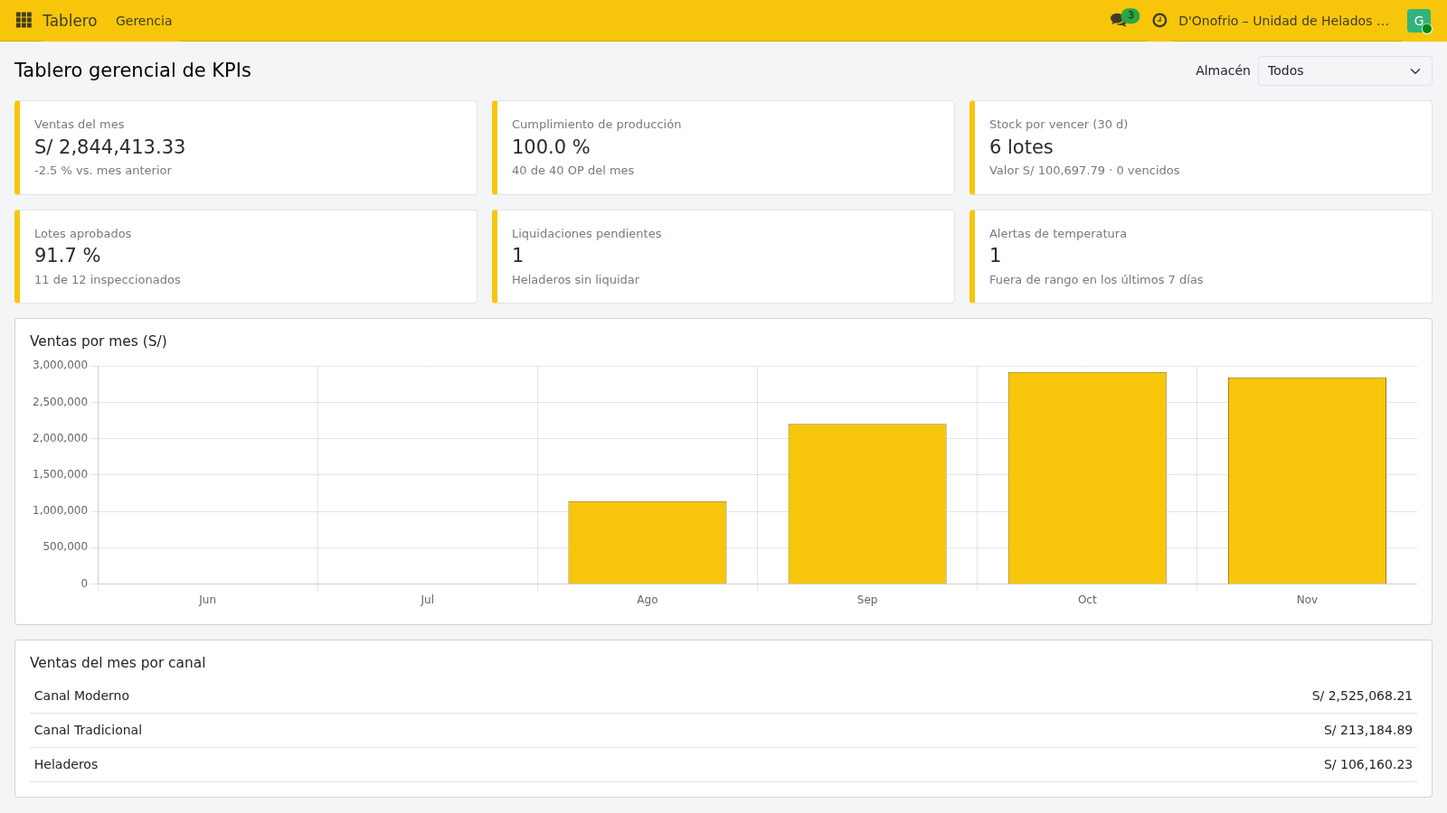
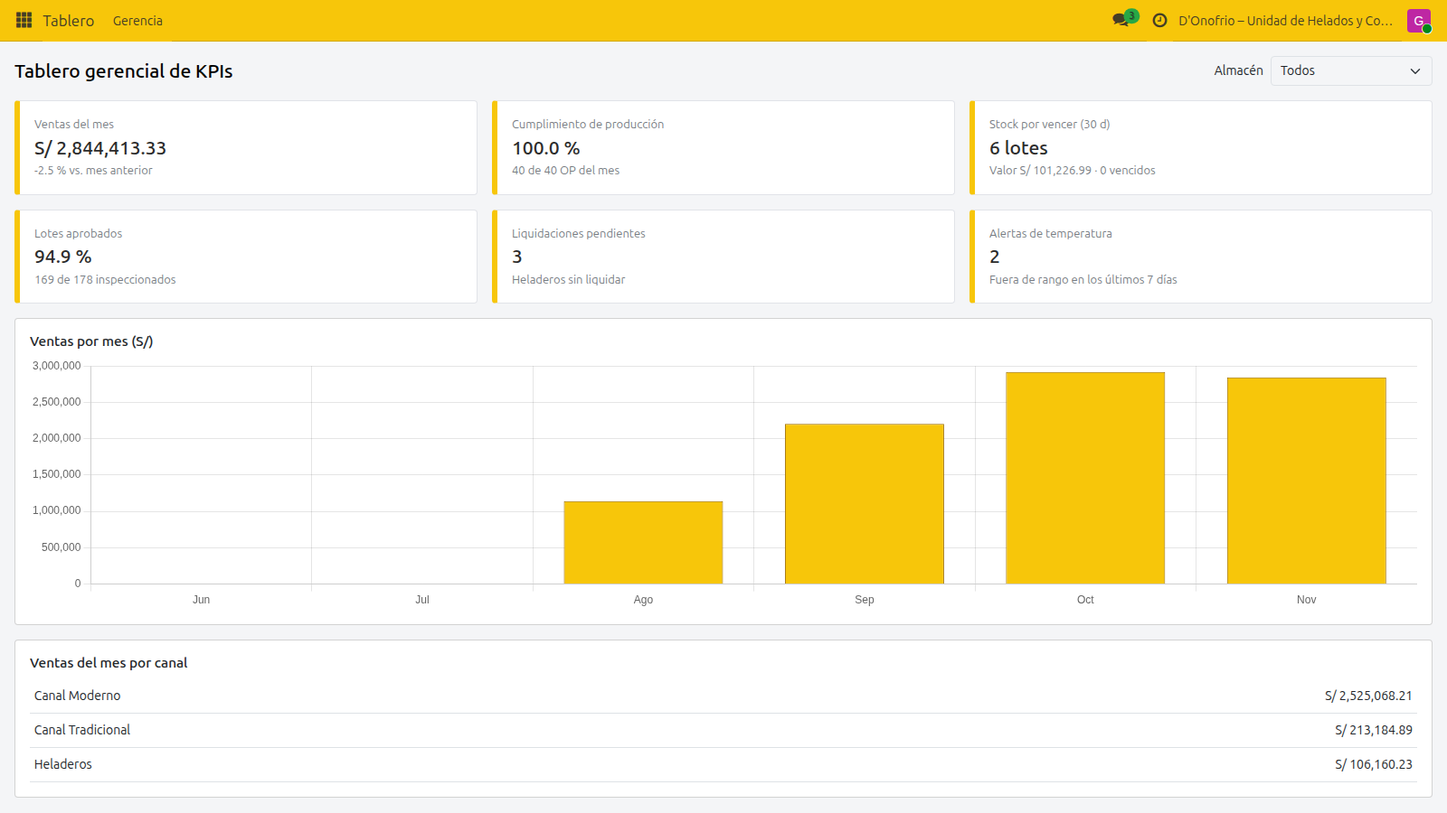
docs(capturas): PNG de 1600x900 con datos de demostración y juego para el manual [HU-17][HU-18][HU-19][HU-20][HU-21][HU-22]
- Reemplaza por PNG las capturas JPG de M1 (HU-17, HU-18) y M2 (HU-20, HU-21) con la misma escena,
  ahora con los datos de la HU-16, y borra los JPG.
- Rehace las de M3 (HU-19) y las dos del tablero con las tarjetas llenas (HU-22).
- Se conservan dos JPG que no se pueden reproducir sin crear datos o sin la pantalla anterior:
  HU-20_error_devuelto_mas_merma y HU-24_limite_login_morado.
- Agrega docs/capturas/manual/ (30 capturas por rol, rol_NN_pantalla.png) y su README.
- Actualiza referencias en los informes de M1, M2, M3 y M4, la ficha RF y los gates; marca como resuelto
  el pendiente de las capturas de M1 y M2 en el gate de M4.

diff --git a/docs/capturas/manual/README.md b/docs/capturas/manual/README.md
@@ -1,0 +1,47 @@
+# Capturas para el manual de usuario
+
+Material de apoyo para el manual de usuario (que se redacta aparte). Son 30 capturas de las pantallas principales de cada rol, tomadas el 25/11/2026 sobre la base `donofrio` con los datos de demostración de la HU-16 (del 3/8 al 22/11/2026). Todas son PNG de 1600 × 900 y se tomaron **solo con lectura**: no se creó, confirmó ni borró ningún registro.
+
+Nombre de cada archivo: `rol_NN_pantalla.png`. El usuario de cada rol es el de demostración de `donofrio_base` (por ejemplo `vendedor@donofrio.example.com`); el «menú» es la ruta que sigue ese usuario en Odoo.
+
+| Archivo | Rol | Menú | Qué muestra |
+|---|---|---|---|
+| [`gerente_01_tablero.png`](gerente_01_tablero.png) | Gerente | Tablero › Gerencia | Tablero gerencial con las seis tarjetas (ventas del mes, cumplimiento de producción, stock por vencer, lotes aprobados, liquidaciones pendientes y alertas de temperatura), el gráfico de ventas por mes y la tabla por canal, con «Todos» los almacenes |
+| [`gerente_02_analisis_facturas.png`](gerente_02_analisis_facturas.png) | Gerente | Facturación › Reportes › Análisis de facturas | Gráfico de lo facturado de agosto a noviembre |
+| [`gerente_03_tablero_lima.png`](gerente_03_tablero_lima.png) | Gerente | Tablero › Gerencia | El mismo tablero con el filtro «Almacén: WH-LIM Planta Lima» |
+| [`jefe_ventas_01_pipeline_crm.png`](jefe_ventas_01_pipeline_crm.png) | Jefe de ventas | CRM › Ventas › Mi flujo | Pipeline de oportunidades por etapa (Prospecto, Calificado, Propuesta, Negociación, Ganado) con importes |
+| [`jefe_ventas_02_cotizaciones_pedidos.png`](jefe_ventas_02_cotizaciones_pedidos.png) | Jefe de ventas | CRM › Ventas › Mis cotizaciones | Lista de pedidos de venta con cliente, vendedor, total y estado |
+| [`jefe_ventas_03_pedido_formulario.png`](jefe_ventas_03_pedido_formulario.png) | Jefe de ventas | CRM › Ventas › Mis cotizaciones › S00437 | Formulario de un pedido confirmado: cliente, líneas, impuestos y total |
+| [`vendedor_01_mis_cotizaciones.png`](vendedor_01_mis_cotizaciones.png) | Vendedor | CRM › Ventas › Mis cotizaciones | Los pedidos del vendedor, con total y estado |
+| [`vendedor_02_pedido_formulario.png`](vendedor_02_pedido_formulario.png) | Vendedor | CRM › Ventas › Mis cotizaciones › S00429 | Formulario del pedido: cliente, lista de precios, líneas y total |
+| [`vendedor_03_mi_flujo.png`](vendedor_03_mi_flujo.png) | Vendedor | CRM › Ventas › Mi flujo | Sus oportunidades por etapa |
+| [`cajero_01_pdv_pantalla_venta.png`](cajero_01_pdv_pantalla_venta.png) | Cajero | Punto de venta › Seguir vendiendo | Pantalla de venta del PdV con la caja desbloqueada: productos de la heladería y el pedido vacío listo para cobrar |
+| [`cajero_02_pdv_ordenes.png`](cajero_02_pdv_ordenes.png) | Cajero | Punto de venta › Órdenes › Órdenes | Lista de órdenes del PdV con sesión, fecha, recibo, total y estado |
+| [`cajero_03_pdv_reporte_ordenes.png`](cajero_03_pdv_reporte_ordenes.png) | Cajero | Punto de venta › Reportes › Órdenes | Análisis de las ventas del PdV por categoría de producto |
+| [`jefe_almacen_01_existencias_por_ubicacion.png`](jefe_almacen_01_existencias_por_ubicacion.png) | Jefe de almacén | Inventario › Reportes › Ubicaciones | Existencias por ubicación, producto y número de lote |
+| [`jefe_almacen_02_recepciones.png`](jefe_almacen_02_recepciones.png) | Jefe de almacén | Inventario › Operaciones › Recepciones | Recepciones de mercadería en estado «Hecho», con su origen |
+| [`jefe_almacen_03_cadena_frio_lecturas.png`](jefe_almacen_03_cadena_frio_lecturas.png) | Jefe de almacén | Calidad › Cadena de frío › Lecturas de temperatura | Lecturas por cámara con su rango; la lectura fuera de rango sale en rojo y con la casilla marcada |
+| [`jefe_produccion_01_ordenes_fabricacion.png`](jefe_produccion_01_ordenes_fabricacion.png) | Jefe de producción | Manufactura › Operaciones › Órdenes de fabricación | Lista de órdenes de fabricación (sin filtro) con producto, cantidad y estado |
+| [`jefe_produccion_02_orden_formulario.png`](jefe_produccion_02_orden_formulario.png) | Jefe de producción | Manufactura › Operaciones › Órdenes de fabricación › WH/MO/00188 | Orden terminada: producto, lote, cantidad y componentes consumidos |
+| [`inspector_01_lista_inspecciones.png`](inspector_01_lista_inspecciones.png) | Inspector | Calidad › Inspecciones | Inspecciones «Por medir» (pendientes y en medición) |
+| [`inspector_02_inspeccion_en_medicion.png`](inspector_02_inspeccion_en_medicion.png) | Inspector | Calidad › Inspecciones › INS/00184 | Inspección en medición con sus puntos de control y los botones «Aprobar lote» y «Rechazar lote» |
+| [`inspector_03_certificado_pdf.png`](inspector_03_certificado_pdf.png) | Inspector | Calidad › Inspecciones › INS/00178 › Certificado PDF | Certificado de calidad del lote con mediciones y responsable |
+| [`liquidador_01_lista_liquidaciones.png`](liquidador_01_lista_liquidaciones.png) | Liquidador | Heladeros › Liquidaciones | Liquidaciones del día por heladero, con unidades, importe, comisión y estado |
+| [`liquidador_02_liquidacion_despachada.png`](liquidador_02_liquidacion_despachada.png) | Liquidador | Heladeros › Liquidaciones › LIQ/2026/00126 | Liquidación despachada: despachado, vendido, precio e importe, con «Confirmar liquidación» e «Imprimir» |
+| [`liquidador_03_liquidacion_pdf.png`](liquidador_03_liquidacion_pdf.png) | Liquidador | Heladeros › Liquidaciones › LIQ/2026/00123 › Imprimir | PDF de la liquidación con el detalle, el efectivo entregado y las firmas |
+| [`compras_01_pedidos_compra.png`](compras_01_pedidos_compra.png) | Compras | Compras › Órdenes › Solicitudes de cotización | Órdenes de compra a proveedores con total y estado |
+| [`compras_02_pedido_compra_formulario.png`](compras_02_pedido_compra_formulario.png) | Compras | Compras › Órdenes › P00101 | Formulario de una orden de compra: proveedor, líneas recibidas y facturadas, impuestos |
+| [`contador_01_facturas_clientes.png`](contador_01_facturas_clientes.png) | Contador | Facturación › Clientes › Facturas | Facturas y boletas de clientes con fecha, total y estado de pago |
+| [`contador_02_pagos.png`](contador_02_pagos.png) | Contador | Facturación › Clientes › Pagos | Pagos de clientes por diario y método, con su estado |
+| [`contador_03_facturas_proveedor.png`](contador_03_facturas_proveedor.png) | Contador | Facturación › Proveedores › Facturas | Facturas de proveedores con vencimiento y estado |
+| [`admin_01_ajustes.png`](admin_01_ajustes.png) | Admin | Ajustes › Ajustes generales | Pantalla de Ajustes: usuarios, idiomas, empresa y aplicaciones configurables |
+| [`admin_02_aplicaciones.png`](admin_02_aplicaciones.png) | Admin | Aplicaciones (filtro «Instalado») | Aplicaciones instaladas, entre ellas Calidad, Heladeros y Tablero de D'Onofrio |
+
+## Cómo se tomaron y qué tener en cuenta
+
+- Se tomaron con Chromium sin interfaz (Playwright) a 1600 × 900, entrando al ERP con cada usuario y recorriendo el menú, de modo que la barra superior muestra la aplicación y la ruta reales. Los PDF (certificado y liquidación) se descargaron del propio ERP y se dibujaron en un marco de visor de 1600 × 900.
+- **Panel de mensajes oculto en cuatro formularios** (`jefe_ventas_03`, `vendedor_02`, `jefe_produccion_02`, `compras_02`): el historial de esos registros lo creó el script de carga el 24/11 y está en inglés («Sales Order created»); se ocultó solo en la captura para que no aparezcan datos fuera de 3/8–22/11 ni texto en otro idioma. No se tocó ningún dato.
+- **Columna «Fecha de creación» quitada** en `jefe_ventas_02` y `vendedor_01` (selector de columnas de la lista, un ajuste de pantalla): para los pedidos de demostración era el 24/11, el día de la carga.
+- En `cajero_01_pdv_pantalla_venta` los productos salen con la imagen genérica porque la demostración no trae fotos de producto. El tablero del PdV (tarjeta «Seguir vendiendo») no se capturó: la sesión abierta es de pruebas y su fecha de apertura es el 24/11.
+- Los apellidos, los clientes («… Ejemplo SAC») y las direcciones son ficticios (datos de la HU-16). El domicilio «Av. Ejemplo 123» y el RUC `20999999990` de la cabecera de los PDF son los de la empresa de demostración.
+- Lotes: el listado de lotes de Odoo muestra la fecha de creación de la carga (24/11), así que el manual puede usar `jefe_almacen_01` (cada existencia con su lote) y `docs/capturas/sprint-4/HU-19_cron_lote_por_vencer.png` para la ficha de un lote por vencer.

diff --git a/docs/informe/05_05_modulo_donofrio_heladeros.md b/docs/informe/05_05_modulo_donofrio_heladeros.md
@@ -59,23 +59,23 @@ Un usuario sin esos grupos (por ejemplo, el comprador) recibe `AccessError` (pru
 
 `scripts/test.sh donofrio_heladeros`: **14 pruebas, sin errores** (vendido, precio de la lista «Heladero», comisión y diferencia, rechazo de devuelto + merma mayor que lo despachado y de cantidades negativas, una liquidación por día, flujo completo con su pedido confirmado, estados no permitidos, permisos, y el PDF en despachada, con deuda y en borrador).
 
-Verificado en la pantalla de Odoo (base `donofrio`, usuario Liquidador, 24/11/2026):
+Verificado en la pantalla de Odoo (base `donofrio`, usuario Liquidador, con los datos de demostración de la HU-16; PNG de 1600 × 900, tomados el 25/11/2026):
 
 | Qué se verificó | Captura |
 |---|---|
-| Liquidación despachada con vendido, importe, comisión y diferencia de efectivo | [`HU-20_liquidacion_despachada.jpg`](../capturas/sprint-4/HU-20_liquidacion_despachada.jpg) |
-| Liquidación confirmada (Liquidado) con su pedido de venta S00441 | [`HU-20_liquidacion_confirmada_con_pedido.jpg`](../capturas/sprint-4/HU-20_liquidacion_confirmada_con_pedido.jpg) |
-| Lista de liquidaciones con totales | [`HU-20_lista_liquidaciones.jpg`](../capturas/sprint-4/HU-20_lista_liquidaciones.jpg) |
-| Precio con tres decimales y el importe que cuadra | [`HU-20_liquidacion_precio_3_decimales.jpg`](../capturas/sprint-4/HU-20_liquidacion_precio_3_decimales.jpg) |
-| Error de validación al devolver y mermar más de lo despachado | [`HU-20_error_devuelto_mas_merma.jpg`](../capturas/sprint-4/HU-20_error_devuelto_mas_merma.jpg) |
-| Formulario con el botón «Imprimir» y el campo Liquidador | [`HU-21_formulario_con_imprimir_y_liquidador.jpg`](../capturas/sprint-4/HU-21_formulario_con_imprimir_y_liquidador.jpg) |
-| PDF con el detalle, el efectivo y las firmas | [`HU-21_pdf_liquidacion.jpg`](../capturas/sprint-4/HU-21_pdf_liquidacion.jpg) |
+| Liquidación despachada (LIQ/2026/00126) con vendido, importe, comisión y diferencia de efectivo | [`HU-20_liquidacion_despachada.png`](../capturas/sprint-4/HU-20_liquidacion_despachada.png) |
+| Liquidación confirmada (Liquidado) (LIQ/2026/00124) con su pedido de venta S00435 | [`HU-20_liquidacion_confirmada_con_pedido.png`](../capturas/sprint-4/HU-20_liquidacion_confirmada_con_pedido.png) |
+| Lista de liquidaciones con totales | [`HU-20_lista_liquidaciones.png`](../capturas/sprint-4/HU-20_lista_liquidaciones.png) |
+| Precio con tres decimales (LIQ/2026/00122) y el importe que cuadra | [`HU-20_liquidacion_precio_3_decimales.png`](../capturas/sprint-4/HU-20_liquidacion_precio_3_decimales.png) |
+| Error de validación al devolver y mermar más de lo despachado (captura de la primera entrega, en JPG: reproducirla exige crear una liquidación, y la HU-16 pidió no tocar los datos) | [`HU-20_error_devuelto_mas_merma.jpg`](../capturas/sprint-4/HU-20_error_devuelto_mas_merma.jpg) |
+| Formulario con el botón «Imprimir» y el campo Liquidador | [`HU-21_formulario_con_imprimir_y_liquidador.png`](../capturas/sprint-4/HU-21_formulario_con_imprimir_y_liquidador.png) |
+| PDF de LIQ/2026/00124 con el detalle, el efectivo y las firmas | [`HU-21_pdf_liquidacion.png`](../capturas/sprint-4/HU-21_pdf_liquidacion.png) |
 
 ## 5.5c.6 Límites
 
 - **La vista móvil no se probó en un celular real ni con una pantalla de ancho móvil.** El navegador de las pruebas no permite reducir el ancho de la ventana (la ventana no cambió de tamaño y Odoo no entró en modo móvil), y Odoo no deja incrustar sus páginas en un marco. Se usa el formulario responsive estándar de Odoo; las columnas de precio e importe se pueden ocultar con el selector de columnas de la lista (`optional="show"`). Una condición como `uiEnv.isSmall` no es válida en las vistas de Odoo 19 y se descartó.
 - **Inventario:** el pedido solo mueve stock por lo vendido (la prueba de pantalla generó su entrega `LIM/PICK/00227` por 100 unidades). Ver 5.5c.3.
-- **La liquidación de la captura y su pedido** son datos de prueba en la base de desarrollo, no en el repositorio. En ella el liquidador figura como «OdooBot» porque se creó antes de existir ese campo; las nuevas llevan a quien las crea.
+- **Las liquidaciones de las capturas y sus pedidos** son datos de demostración (HU-16) en la base de desarrollo, no en el repositorio; se tomaron solo con lectura. Su liquidador es el usuario «Liquidador de Heladeros (CD Arequipa)».
 - **Filas del diccionario:** la columna «Filas» de 4.2.8 sale ahora de la base de desarrollo `donofrio` (la base `donofrio_perf` con la que se midió ya no existe) e incluye los datos de prueba de M1 y M2; por eso `sale_order` pasó de 437 a 438. Las cifras de 4.2.6 siguen citando `donofrio_perf`.
 - **El PDF no valida stock ni comprobantes:** es un documento para firmar; no reemplaza a la factura o boleta del pedido.
 - El módulo no trae traducciones `.po`: los textos de las vistas, los mensajes y el reporte están en español en el código.

diff --git a/docs/scrum/gates/gate-m4-tablero.md b/docs/scrum/gates/gate-m4-tablero.md
@@ -22,7 +22,7 @@
 | Actualización (`-u`) sin errores sobre una base con datos | **Cumple** | Instalado y actualizado sobre la base `donofrio`, sin `ERROR` ni `WARNING` (primera entrega). El 24/11 se instaló además desde cero en una base nueva con los datos de demostración (los cuatro módulos), sin errores; la actualización de las dos correcciones sobre la base del equipo no se repitió |
 | Criterios verificados en la pantalla | **Cumple, con límites** | Seis tarjetas, gráfico, tabla por canal, filtro por almacén (cuadra: Lima + Arequipa = total y el total coincide con SQL), barra amarilla y menú, como Gerente General; aviso de «sin permiso» con el Vendedor; login con la marca. **Celular:** probado en un emulador, sin desplazamiento horizontal y legible ([5.5e.6.1](../../informe/05_05_modulo_donofrio_tablero.md)); no en un teléfono real. **Lighthouse del tablero: 76 en escritorio, bajo la meta de 80** (ver §3). No hay pruebas de JavaScript |
 | < 3 s | **Cumple** | `get_kpis` entre 30 y 57 ms y página en 177 ms, en una PC ([evidencia](../../capturas/sprint-4/HU-22_evidencia_tablero.txt)); Lighthouse en el despliegue protegido: **LCP del tablero 2.11 s** ([evidencia](../../capturas/sprint-4/S4_evidencia_verificacion_m4.txt)) |
-| Capturas | **Cumple** (las de M4) | [`docs/capturas/sprint-4/`](../../capturas/sprint-4/): PNG de 1600 × 900 del tablero (todos los almacenes, filtro Arequipa, sin permiso), de la marca (barra, ventas, fabricación, entregas, «sin datos», login) y del celular, más la [evidencia](../../capturas/sprint-4/S4_evidencia_verificacion_m4.txt) y el CSV de Lighthouse. **Siguen en JPG reducido** las capturas de M1 y M2 (HU-17, 18, 20 y 21), que no son de este módulo |
+| Capturas | **Cumple** (las de M4) | [`docs/capturas/sprint-4/`](../../capturas/sprint-4/): PNG de 1600 × 900 del tablero (todos los almacenes, filtro Arequipa, sin permiso), de la marca (barra, ventas, fabricación, entregas, «sin datos», login) y del celular, más la [evidencia](../../capturas/sprint-4/S4_evidencia_verificacion_m4.txt) y el CSV de Lighthouse. Las de M1 y M2 (HU-17, 18, 20 y 21) se rehicieron el 25/11 en PNG de 1600 × 900 (ver los gates de M1 y M2), igual que las del tablero con las tarjetas llenas |
 | Checklist de la épica #147 | **Parcial** | Con el PR; el criterio de la carga se marca con la medición de una PC |
 | Sección del informe | **Cumple** | [5.5e](../../informe/05_05_modulo_donofrio_tablero.md); RF013 en 4.2.2 y 10.1; CU009; 4.4; 4.2.5 |
 | ER y diccionario extraídos de nuevo | **No aplica** | M4 no crea tablas: el ER (42 tablas) y el diccionario no cambian |
@@ -41,7 +41,7 @@
 | Pruebas de JavaScript | Equipo | No existen; el componente OWL se verificó a mano |
 | ~~Un usuario sin permiso de ventas ve un error si abre el tablero~~ | **Resuelto** (24/11) | Recibe un aviso en español; 4 pruebas nuevas y captura con el Vendedor. Queda como límite que no hay una versión parcial del tablero por áreas |
 | Marca: otras pantallas | Equipo | **Resuelto:** el inicio de sesión y las ilustraciones de «sin datos» ya usan la marca (capturas PNG). **Pendiente:** no se revisaron los PDF, el punto de venta, otras páginas públicas (portal, restablecer contraseña) ni las demás aplicaciones (5.5e.4 y 5.5e.8) |
-| ~~Capturas en PNG y a mayor resolución~~ de M4 | **Resuelto** (24/11) | PNG de 1600 × 900. **Pendiente:** las de M1 y M2 (HU-17, 18, 20 y 21) siguen en JPG reducido |
+| ~~Capturas en PNG y a mayor resolución~~ de M4 | **Resuelto** (24/11) | PNG de 1600 × 900. ~~**Pendiente:** las de M1 y M2 (HU-17, 18, 20 y 21) siguen en JPG reducido~~ **Resuelto** (25/11): rehechas en PNG de 1600 × 900 con los datos de demostración; quedan solo dos JPG históricos que no se pueden reproducir sin crear datos (`HU-20_error_devuelto_mas_merma`, `HU-24_limite_login_morado`) |
 | Otros textos que aún dicen «M4 futuro» | Informe final | Resumen (01), conclusiones (07), recomendaciones (08) y el diagrama de clases de la Fase 2, como con M1 a M3 ([acuerdo del 23/11](decisiones-2026-11-23.md)) |
 
 **Bugs descubiertos y corregidos en la prueba de pantalla:** (1) una tarjeta de un módulo opcional rompía todo el tablero si el usuario no podía leer su modelo; ahora esa tarjeta se oculta (5.5e.7). (2) El Jefe de Ventas (que ve el menú) y el Vendedor (si abre la dirección) recibían «Error de acceso» porque no leen lotes ni existencias; ahora reciben el aviso de «sin permiso» (5.5e.5). Esta verificación no encontró ningún error nuevo del módulo; no se tocó código.

diff --git a/docs/informe/05_05_modulo_donofrio_calidad.md b/docs/informe/05_05_modulo_donofrio_calidad.md
@@ -119,18 +119,18 @@ mrp_production 1───* donofrio_calidad_inspeccion *───1 stock_lot
 
 `scripts/test.sh donofrio_calidad`: **12 pruebas, sin errores** (creación al terminar la OP y sin duplicados, líneas según el producto, aprobar con y sin cumplir, rechazar con motivo, despacho de lote rechazado y aprobado, unicidad, permisos, certificado de aprobada y error en las demás).
 
-| Qué se verificó en la pantalla de Odoo (base `donofrio`, usuario Inspector de Calidad, 24/11/2026) | Captura |
+| Qué se verificó en la pantalla de Odoo (base `donofrio`, usuario Inspector de Calidad, con los datos de demostración de la HU-16; PNG de 1600 × 900, tomados el 25/11/2026) | Captura |
 |---|---|
-| Lista de inspecciones por medir | [`HU-17_lista_inspecciones.jpg`](../capturas/sprint-4/HU-17_lista_inspecciones.jpg) |
-| Medir los cuatro puntos desde la pantalla y aprobar (INS/00003: pasó de «En medición» a «Aprobado») | [`HU-17_inspeccion_aprobada.jpg`](../capturas/sprint-4/HU-17_inspeccion_aprobada.jpg) |
-| Inspección rechazada por pasteurización a 76 °C, con su motivo | [`HU-17_inspeccion_rechazada.jpg`](../capturas/sprint-4/HU-17_inspeccion_rechazada.jpg) |
-| Certificado PDF con logo, mediciones y responsable | [`HU-18_certificado_pdf.jpg`](../capturas/sprint-4/HU-18_certificado_pdf.jpg) |
+| Lista de inspecciones por medir | [`HU-17_lista_inspecciones.png`](../capturas/sprint-4/HU-17_lista_inspecciones.png) |
+| Medir los cuatro puntos desde la pantalla y aprobar (INS/00180, aprobada, con las cuatro mediciones dentro de su norma) | [`HU-17_inspeccion_aprobada.png`](../capturas/sprint-4/HU-17_inspeccion_aprobada.png) |
+| Inspección rechazada por pasteurización a 79.46 °C (INS/00177), con su motivo | [`HU-17_inspeccion_rechazada.png`](../capturas/sprint-4/HU-17_inspeccion_rechazada.png) |
+| Certificado PDF de INS/00180 con logo, mediciones y responsable | [`HU-18_certificado_pdf.png`](../capturas/sprint-4/HU-18_certificado_pdf.png) |
 
 ## 5.5b.8 Límites
 
 - **El bloqueo del despacho se probó con pruebas automáticas, no en la pantalla.** Cubre la salida a cliente por una transferencia; no se probó el punto de venta con un lote rechazado.
-- **Las inspecciones de las 188 órdenes históricas no existen:** solo se crean al terminar una orden nueva. Las tres de las capturas se crearon a mano sobre órdenes ya terminadas, **solo en la base de desarrollo**.
-- En las capturas, el inspector figura como «OdooBot» porque se inició la medición por script; al iniciarla un usuario en la pantalla, queda su nombre.
+- **Las inspecciones de las capturas son datos de demostración** (HU-16, 188 inspecciones en la base de desarrollo, no en el repositorio); se tomaron solo con lectura, sin crear ni editar registros. En un despliegue nuevo solo se crean al terminar una orden de fabricación.
+- En las capturas, el historial de cada inspección figura a nombre de «OdooBot», porque la demostración se cargó por script; al crearla un usuario en la pantalla, queda su nombre.
 - El módulo se instaló (`-i`) y se actualizó (`-u`) sobre la base `donofrio`, que tiene datos, sin errores ni avisos. No se probó una actualización entre dos versiones distintas del módulo, porque solo existe una.
 - El mensaje del historial de cambios dice «created» en inglés porque el módulo no trae traducciones `.po` (los textos de las vistas sí están en español).
 - El aviso del rechazo al **jefe de producción** (CU008, A1) se resuelve con una actividad al responsable de la orden; si la orden no tiene responsable, la actividad queda para quien rechaza.

diff --git a/docs/informe/05_05_modulo_donofrio_frio.md b/docs/informe/05_05_modulo_donofrio_frio.md
@@ -106,15 +106,15 @@ stock_location 1───* donofrio_temperatura *───1 res_users
 
 Corrida del 24/11/2026 sobre una base nueva con el código de la rama: `44 post-tests`, `0 failed, 0 error(s) of 44 tests`, sin `ERROR`, `CRITICAL` ni `WARNING` en el registro. `scripts/check_legacy.sh`: «sin patrones legacy». **Actualización (`-u`):** se instaló M1 (código del commit anterior) sobre una base nueva con los datos de `donofrio_base` y se actualizó con el código de M3, sin `ERROR` ni `WARNING`; las cuatro cámaras quedaron con su rango y el cron y el parámetro (7) existen. No se probó sobre la base de desarrollo `donofrio`.
 
-Capturas (base nueva con `donofrio_base`, `donofrio_calidad` y `donofrio_heladeros`, más datos ficticios cargados por script; usuario «Jefe de Almacén», 24/11/2026; PNG de 800 × 500):
+Capturas (base nueva con `donofrio_base`, `donofrio_calidad` y `donofrio_heladeros`, más datos ficticios cargados por script; usuario «Jefe de Almacén»; capturas rehechas el 25/11/2026 con los datos de demostración de la HU-16; PNG de 1600 × 900):
 
 | Qué se verificó en la pantalla de Odoo | Captura |
 |---|---|
-| Lista de lecturas: una fuera de rango (9.5 °C en la cámara de 2 a 6 °C), en rojo y con la casilla marcada | [`HU-19_lista_lecturas.png`](../capturas/sprint-4/HU-19_lista_lecturas.png) |
-| Lectura **dentro** de rango (3 °C): sin cinta y sin actividades | [`HU-19_lectura_dentro_de_rango.png`](../capturas/sprint-4/HU-19_lectura_dentro_de_rango.png) |
+| Lista de lecturas: una fuera de rango (7.3 °C en la cámara de insumos de 2 a 6 °C, el 21/11), en rojo y con la casilla marcada | [`HU-19_lista_lecturas.png`](../capturas/sprint-4/HU-19_lista_lecturas.png) |
+| Lectura **dentro** de rango (3.9 °C): sin cinta y sin actividades | [`HU-19_lectura_dentro_de_rango.png`](../capturas/sprint-4/HU-19_lectura_dentro_de_rango.png) |
 | Lectura **fuera** de rango: cinta «Fuera de rango» y la actividad «Temperatura fuera de rango» para el jefe de almacén | [`HU-19_lectura_fuera_de_rango.png`](../capturas/sprint-4/HU-19_lectura_fuera_de_rango.png) |
 | Rango de temperatura en la ubicación (grupo «Cadena de frío»: 2.00 a 6.00 °C) | [`HU-19_rango_en_ubicacion.png`](../capturas/sprint-4/HU-19_rango_en_ubicacion.png) |
-| Actividad del cron en un lote que vence en 3 días, junto a la alerta estándar de Odoo | [`HU-19_cron_lote_por_vencer.png`](../capturas/sprint-4/HU-19_cron_lote_por_vencer.png) |
+| Actividad del cron en un lote que vence en 4 días (INI-P02-A, vence el 29/11), junto a la alerta estándar de Odoo | [`HU-19_cron_lote_por_vencer.png`](../capturas/sprint-4/HU-19_cron_lote_por_vencer.png) |
 
 ## 5.5d.8 Límites
 

diff --git a/docs/informe/05_05_modulo_donofrio_tablero.md b/docs/informe/05_05_modulo_donofrio_tablero.md
@@ -70,9 +70,9 @@ El tablero **no tiene ACL propios**: es un modelo abstracto sin tabla y lee con 
 | Lighthouse del tablero y del login | [`S4_lighthouse_m4_resultados.csv`](../capturas/sprint-4/S4_lighthouse_m4_resultados.csv), [`S4_evidencia_verificacion_m4.txt`](../capturas/sprint-4/S4_evidencia_verificacion_m4.txt) |
 | Tiempos de `get_kpis`, cifras de control y favicon (base del 24/11 por la mañana) | [`HU-22_evidencia_tablero.txt`](../capturas/sprint-4/HU-22_evidencia_tablero.txt) |
 
-Cifras de control: en la instancia local nueva, las ventas de noviembre del tablero (S/ 2,844,413.33) coinciden con la suma de los pedidos confirmados en la base (consulta SQL), y Lima (S/ 2,525,068.21) más Arequipa (S/ 319,345.12) dan el total. La medición anterior, sobre la base `donofrio` del equipo, dio S/ 2,844,525.83 (Arequipa igual): la diferencia de S/ 112.50 está en Lima, no se investigó y proviene de que la base nueva se cargó de nuevo. En esa base `get_kpis` tardó entre 30 y 57 ms y la página 177 ms (meta de RNF008: menos de 3 s).
+Cifras de control: en la instancia local nueva (las capturas HU-22 del 25/11 muestran S/ 2,844,413.33, S/ 2,525,068.21 de Lima y S/ 319,345.12 de Arequipa), las ventas de noviembre del tablero (S/ 2,844,413.33) coinciden con la suma de los pedidos confirmados en la base (consulta SQL), y Lima (S/ 2,525,068.21) más Arequipa (S/ 319,345.12) dan el total. La medición anterior, sobre la base `donofrio` del equipo, dio S/ 2,844,525.83 (Arequipa igual): la diferencia de S/ 112.50 está en Lima, no se investigó y proviene de que la base nueva se cargó de nuevo. En esa base `get_kpis` tardó entre 30 y 57 ms y la página 177 ms (meta de RNF008: menos de 3 s).
 
-Las capturas son PNG de 1600 × 900 (el celular, 750 × 1624) tomadas con Chromium sin interfaz, porque el navegador integrado de la app no guarda las imágenes; las de la primera entrega eran JPG reducidos.
+Las capturas son PNG de 1600 × 900 (el celular, 750 × 1624) tomadas con Chromium sin interfaz, porque el navegador integrado de la app no guarda las imágenes; las de la primera entrega eran JPG reducidos y se rehicieron en PNG el 25/11/2026 con los datos de demostración de la HU-16 (M1, M2, M3 y las dos del tablero con las tarjetas llenas). Quedan dos JPG de la primera entrega que no se pueden reproducir sin crear datos o sin la versión anterior de la pantalla: `HU-20_error_devuelto_mas_merma.jpg` y `HU-24_limite_login_morado.jpg`.
 
 ### 5.5e.6.1 Vista en celular
 

diff --git a/docs/scrum/gates/gate-m2-heladeros.md b/docs/scrum/gates/gate-m2-heladeros.md
@@ -21,7 +21,7 @@
 | Tests y ACL de cada modelo nuevo | **Cumple** | 14 pruebas sin errores (`scripts/test.sh donofrio_heladeros`); `security/ir.model.access.csv` con las dos tablas |
 | Actualización (`-u`) sin errores sobre una base con datos | **Cumple** | Instalado y actualizado varias veces sobre la base `donofrio`, sin errores ni avisos |
 | Criterios verificados en la pantalla | **Cumple, salvo la vista móvil** | Crear, despachar, confirmar con pedido, error de cantidades, precio con tres decimales, botón «Imprimir» y PDF. **La vista móvil no se pudo probar** (ver sección 3) |
-| Capturas | **Cumple** | [`docs/capturas/sprint-4/`](../../capturas/sprint-4/): 5 de HU-20 y 2 de HU-21 (JPG, resolución reducida) |
+| Capturas | **Cumple** | [`docs/capturas/sprint-4/`](../../capturas/sprint-4/): 4 de HU-20 y 2 de HU-21 rehechas el 25/11 en PNG de 1600 × 900 con los datos de demostración de la HU-16 (queda en JPG `HU-20_error_devuelto_mas_merma`: reproducirla exige crear una liquidación) |
 | Checklist de la épica #145 | **Parcial** | HU-20 y HU-21 enlazadas a su PR; queda sin marcar el criterio «vista móvil usable» de HU-21, así que la épica sigue abierta |
 | Sección del informe | **Cumple** | [5.5c](../../informe/05_05_modulo_donofrio_heladeros.md); RF004 en 4.2.2 y 10.1; CU004; 4.4; 4.2.5 |
 | ER y diccionario extraídos de nuevo | **Cumple** | `diagrama_er.py` y `diccionario_datos.py` con el área «Heladeros (M2)»: 41 tablas, 96 relaciones, Tablas 4.2.8-40 y 4.2.8-41 |
@@ -37,7 +37,7 @@
 | Tag de release de M2 | Orlando | Con el merge `develop` → `main`; el primero fue *squash* y `main` quedó con un solo commit, así que el siguiente PR a `main` puede dar conflictos |
 | Marcar la tarjeta de #145 en el Project | Orlando | Evelyn solo tiene lectura |
 | Filas del diccionario con datos de prueba | — | La columna sale de la base `donofrio` y no de `donofrio_perf` (ya no existe); difiere en una o dos filas por los datos de prueba |
-| Capturas en PNG y a mayor resolución | Evelyn | Las actuales son JPG a escala reducida |
+| ~~Capturas en PNG y a mayor resolución~~ | **Resuelto** (25/11) | PNG de 1600 × 900 (HU-20 y HU-21). Única excepción: `HU-20_error_devuelto_mas_merma.jpg` (primera entrega), porque reproducir el error de validación exige crear datos |
 
 ## 4. Recomendación
 

diff --git a/docs/scrum/gates/gate-m1-calidad.md b/docs/scrum/gates/gate-m1-calidad.md
@@ -21,7 +21,7 @@
 | Tests y ACL de cada modelo nuevo | **Cumple** | 12 pruebas sin errores (`scripts/test.sh donofrio_calidad`); `security/ir.model.access.csv` con las tres tablas |
 | Actualización (`-u`) sin errores sobre una base con datos | **Cumple** | Instalado y actualizado sobre la base `donofrio`, sin errores ni avisos |
 | Criterios verificados en la pantalla | **Cumple, con límites** | Se midió, aprobó y rechazó desde la pantalla y se abrió el PDF. **No** se probó en la pantalla el bloqueo del despacho (solo con pruebas automáticas) ni el punto de venta |
-| Capturas | **Cumple** | [`docs/capturas/sprint-4/`](../../capturas/sprint-4/): lista, inspección aprobada, inspección rechazada y certificado PDF (en JPG, a baja resolución) |
+| Capturas | **Cumple** | [`docs/capturas/sprint-4/`](../../capturas/sprint-4/): lista, inspección aprobada, inspección rechazada y certificado PDF (rehechas el 25/11 en PNG de 1600 × 900, con los datos de demostración de la HU-16) |
 | Checklist de la épica #144 | **Hecho** el 24/11/2026 | Casillas de HU-17 y HU-18 con su PR; la épica sigue abierta hasta que se decida el cierre |
 | Sección del informe | **Cumple** | [5.5b](../../informe/05_05_modulo_donofrio_calidad.md), RF011 y RF012 en 4.2.2 y 10.1, CU008, 4.4 y 4.2.5 |
 | **Tag de release de M1** | **Falta** (`v1.0.0` de la Fase 1 ya existe desde el 24/11/2026) | `v1.1.0` lo crea Orlando desde `main`, tras el PR `develop` → `main` que lleve M1 |
@@ -37,7 +37,7 @@
 | Bloqueo del despacho en el punto de venta | Equipo | Sin prueba; hoy solo se cubre la salida a cliente por transferencia |
 | Inspecciones de las órdenes históricas | — | No existen: solo se crean al terminar una orden nueva |
 | Traducciones `.po` | — | El historial de cambios muestra «created» en inglés |
-| Capturas en PNG y a mayor resolución | Evelyn | Las actuales son JPG a escala reducida |
+| ~~Capturas en PNG y a mayor resolución~~ | **Resuelto** (25/11) | PNG de 1600 × 900 con los datos de demostración (HU-17 y HU-18) |
 | Marcar la tarjeta de #144 en el Project | Orlando | Evelyn solo tiene lectura |
 
 ## 4. Recomendación

diff --git a/docs/scrum/gates/gate-m3-cadena-frio.md b/docs/scrum/gates/gate-m3-cadena-frio.md
@@ -22,7 +22,7 @@ M3 es un incremento de `donofrio_calidad` (M1): no tiene carpeta propia y su tag
 | Tests y ACL de cada modelo nuevo | **Cumple** | **44 pruebas, 0 fallos, 0 errores** en `donofrio_calidad` (29 de `tests/test_frio.py` y 15 de M1 y el PdV); `security/ir.model.access.csv` con tres líneas para `donofrio.temperatura`. `scripts/check_legacy.sh`: «sin patrones legacy» |
 | Actualización (`-u`) sin errores sobre una base con datos | **Cumple** | Se instaló M1 (código de `98263c9~1`) sobre una base nueva con los datos de `donofrio_base` y se actualizó con el código de M3: sin `ERROR` ni `WARNING`; quedaron las 4 cámaras con rango, el cron y el parámetro en 7. La base `donofrio` no se tocó |
 | Criterios verificados en la pantalla | **Cumple, con límites** | Se vieron la lista, una lectura dentro de rango, una fuera de rango con su actividad, el rango en la ubicación y la actividad del cron. **No** se creó una lectura desde el formulario (la crearon scripts), **no** se probó el rol de operario ni el cambio del parámetro en la pantalla, y el cron se ejecutó a mano (ver sección 3) |
-| Capturas | **Cumple** | [`docs/capturas/sprint-4/`](../../capturas/sprint-4/): 5 de HU-19 en PNG de 800 × 500 |
+| Capturas | **Cumple** | [`docs/capturas/sprint-4/`](../../capturas/sprint-4/): 5 de HU-19 en PNG de 1600 × 900, rehechas el 25/11 con los datos de demostración de la HU-16 |
 | Checklist de la épica #146 | **Pendiente** | Orlando, cuando exista el PR |
 | Sección del informe | **Cumple** | [5.5d](../../informe/05_05_modulo_donofrio_frio.md); RF008 en 4.2.2 y 10.1; CU006; 4.4; 4.2.5; nota en la matriz de trazabilidad y en 5.13; plan 9.7 |
 | ER y diccionario extraídos de nuevo | **Cumple** | `diagrama_er.py` y `diccionario_datos.py` sobre una base nueva con `donofrio_base`, `donofrio_calidad` y `donofrio_heladeros`: 42 tablas, 96 relaciones, Tabla 4.2.8-42 (`donofrio_temperatura`) y los campos nuevos de `stock_location` y `stock_lot`. La base temporal se borró |

diff --git a/docs/informe/anexo_10_01_fichas_rf.md b/docs/informe/anexo_10_01_fichas_rf.md
@@ -293,7 +293,7 @@
 | **Criterios de aceptación** | Reporte QWeb con mediciones, responsable y logo; solo para inspecciones aprobadas. |
 | **Reglas de negocio y limitaciones** | Depende de RF011. |
 | **Diseño disponible** | `docs/diagramas/pantallas/mk_rp_certificado_calidad.png` |
-| **Implementación y evidencia** | `report/calidad_report.xml`; `docs/capturas/sprint-4/HU-18_certificado_pdf.jpg` |
+| **Implementación y evidencia** | `report/calidad_report.xml`; `docs/capturas/sprint-4/HU-18_certificado_pdf.png` |
 | **Lo que falta** | Nada de lo diseñado para M1. |
 | **Estado** | **Implementado** (M1, 24/11/2026) |
 
